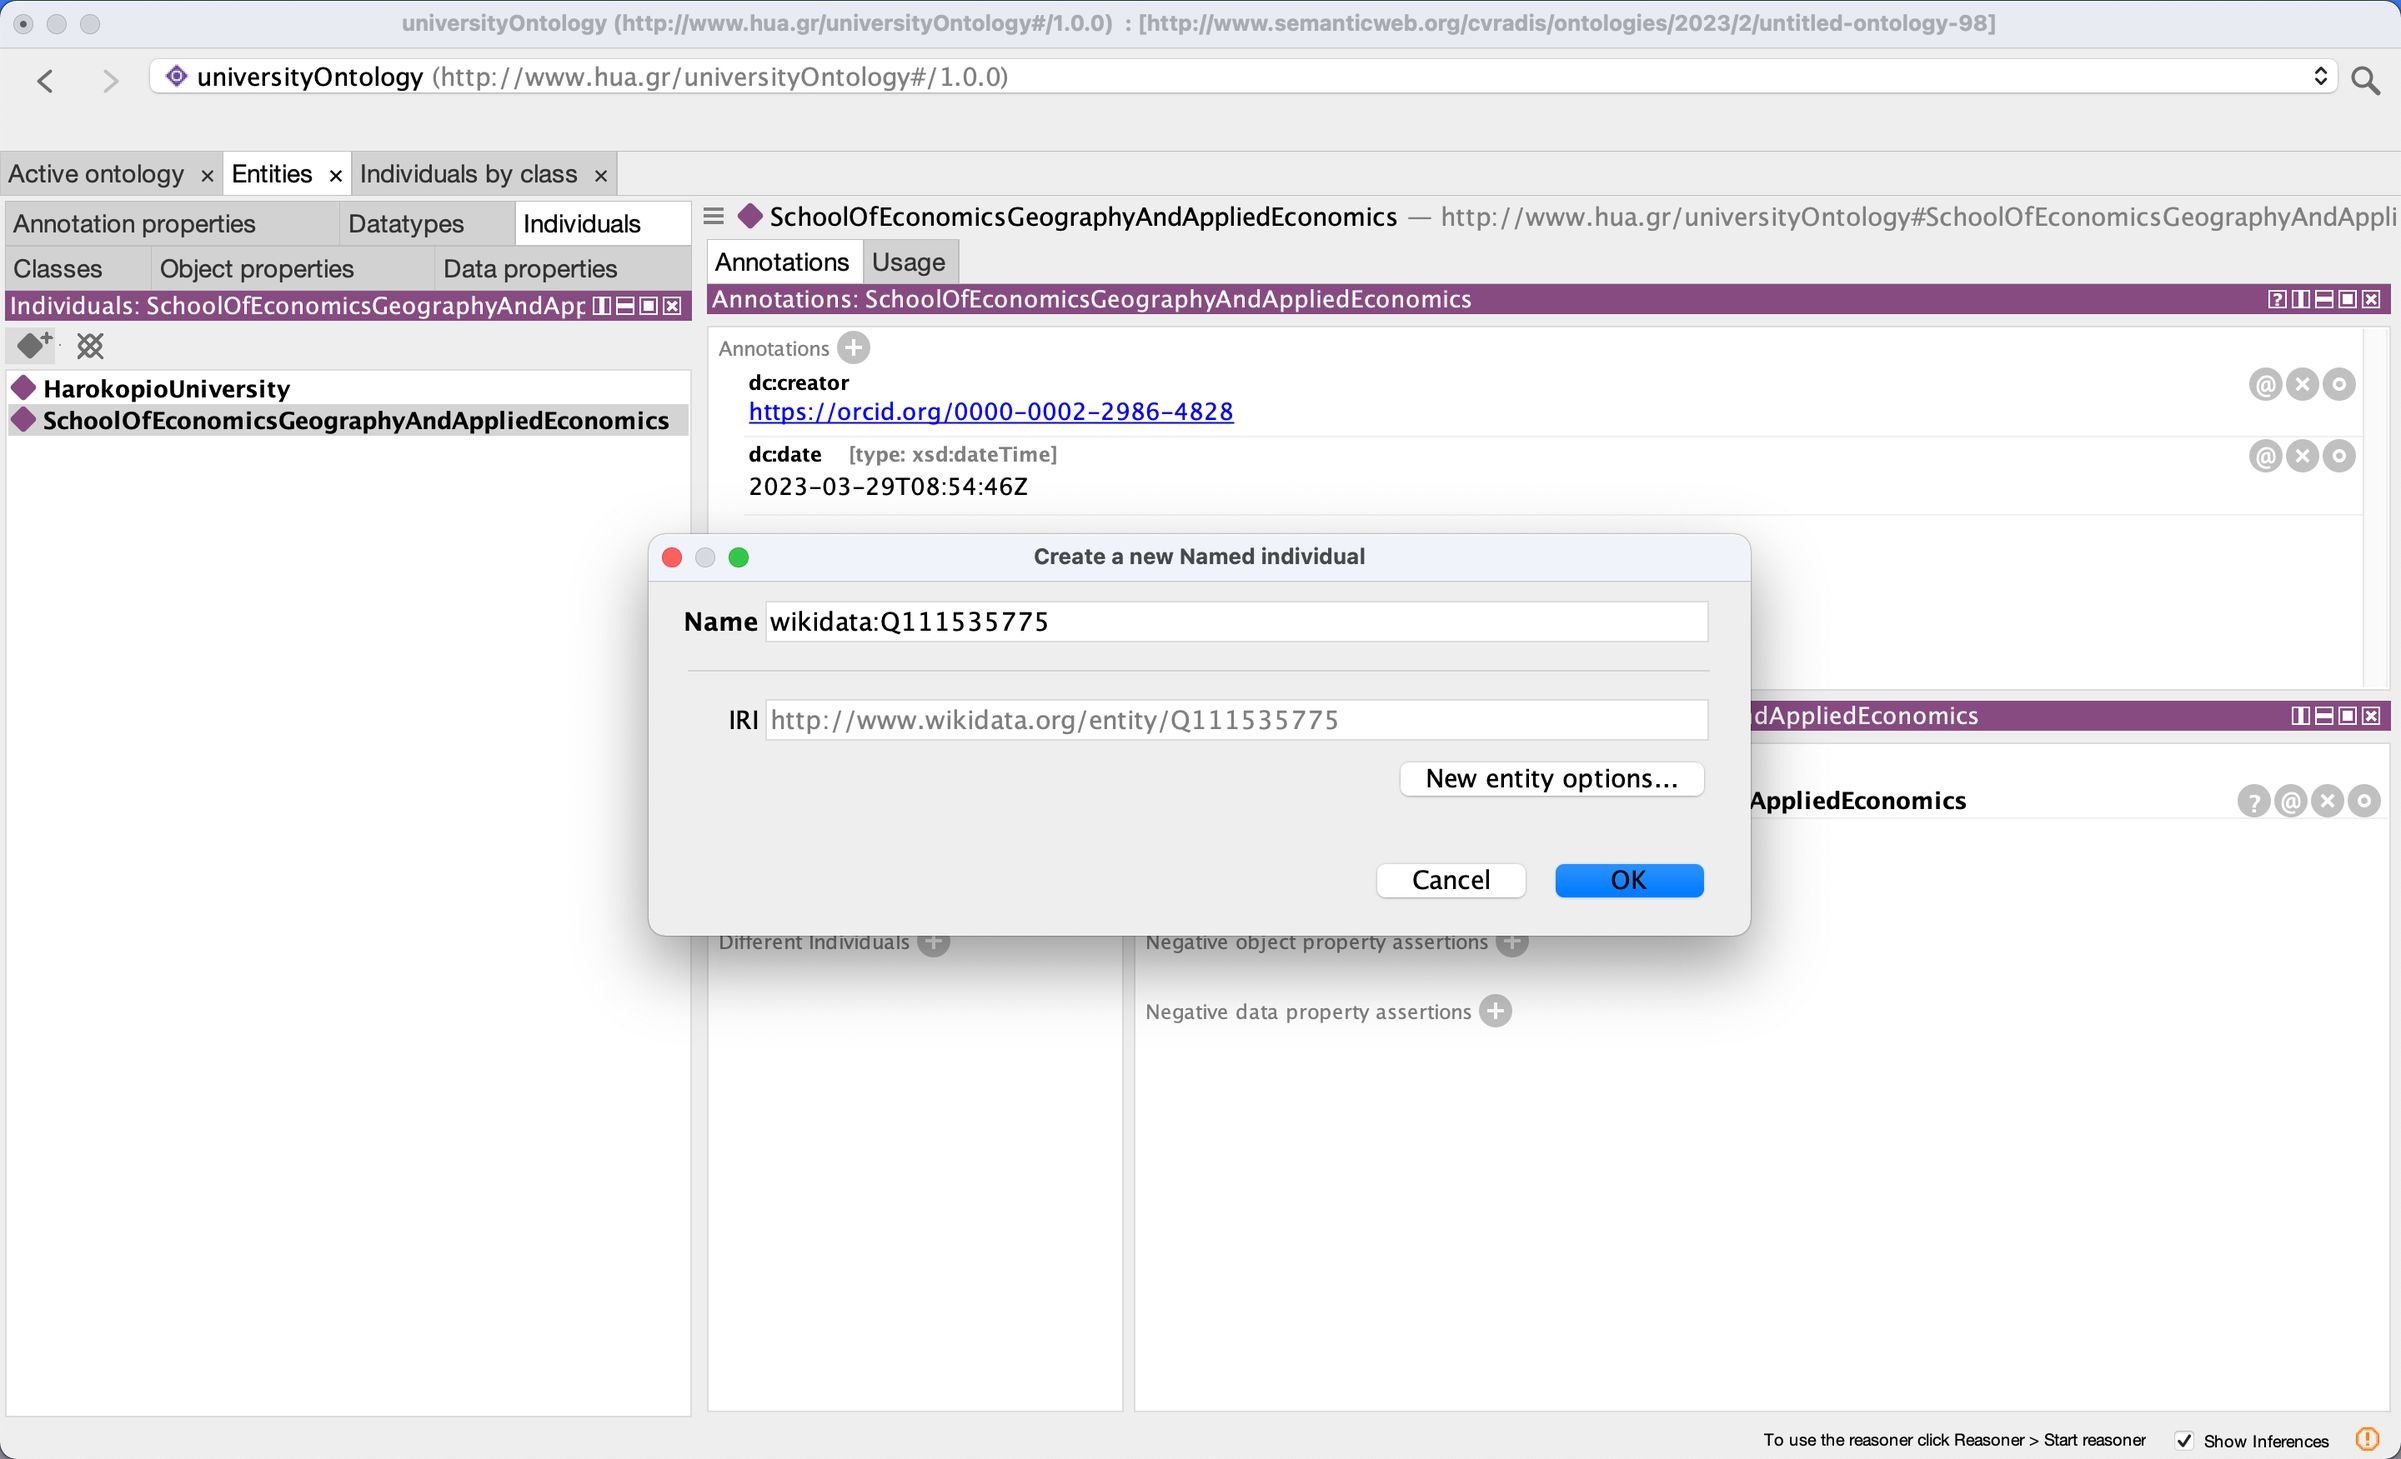
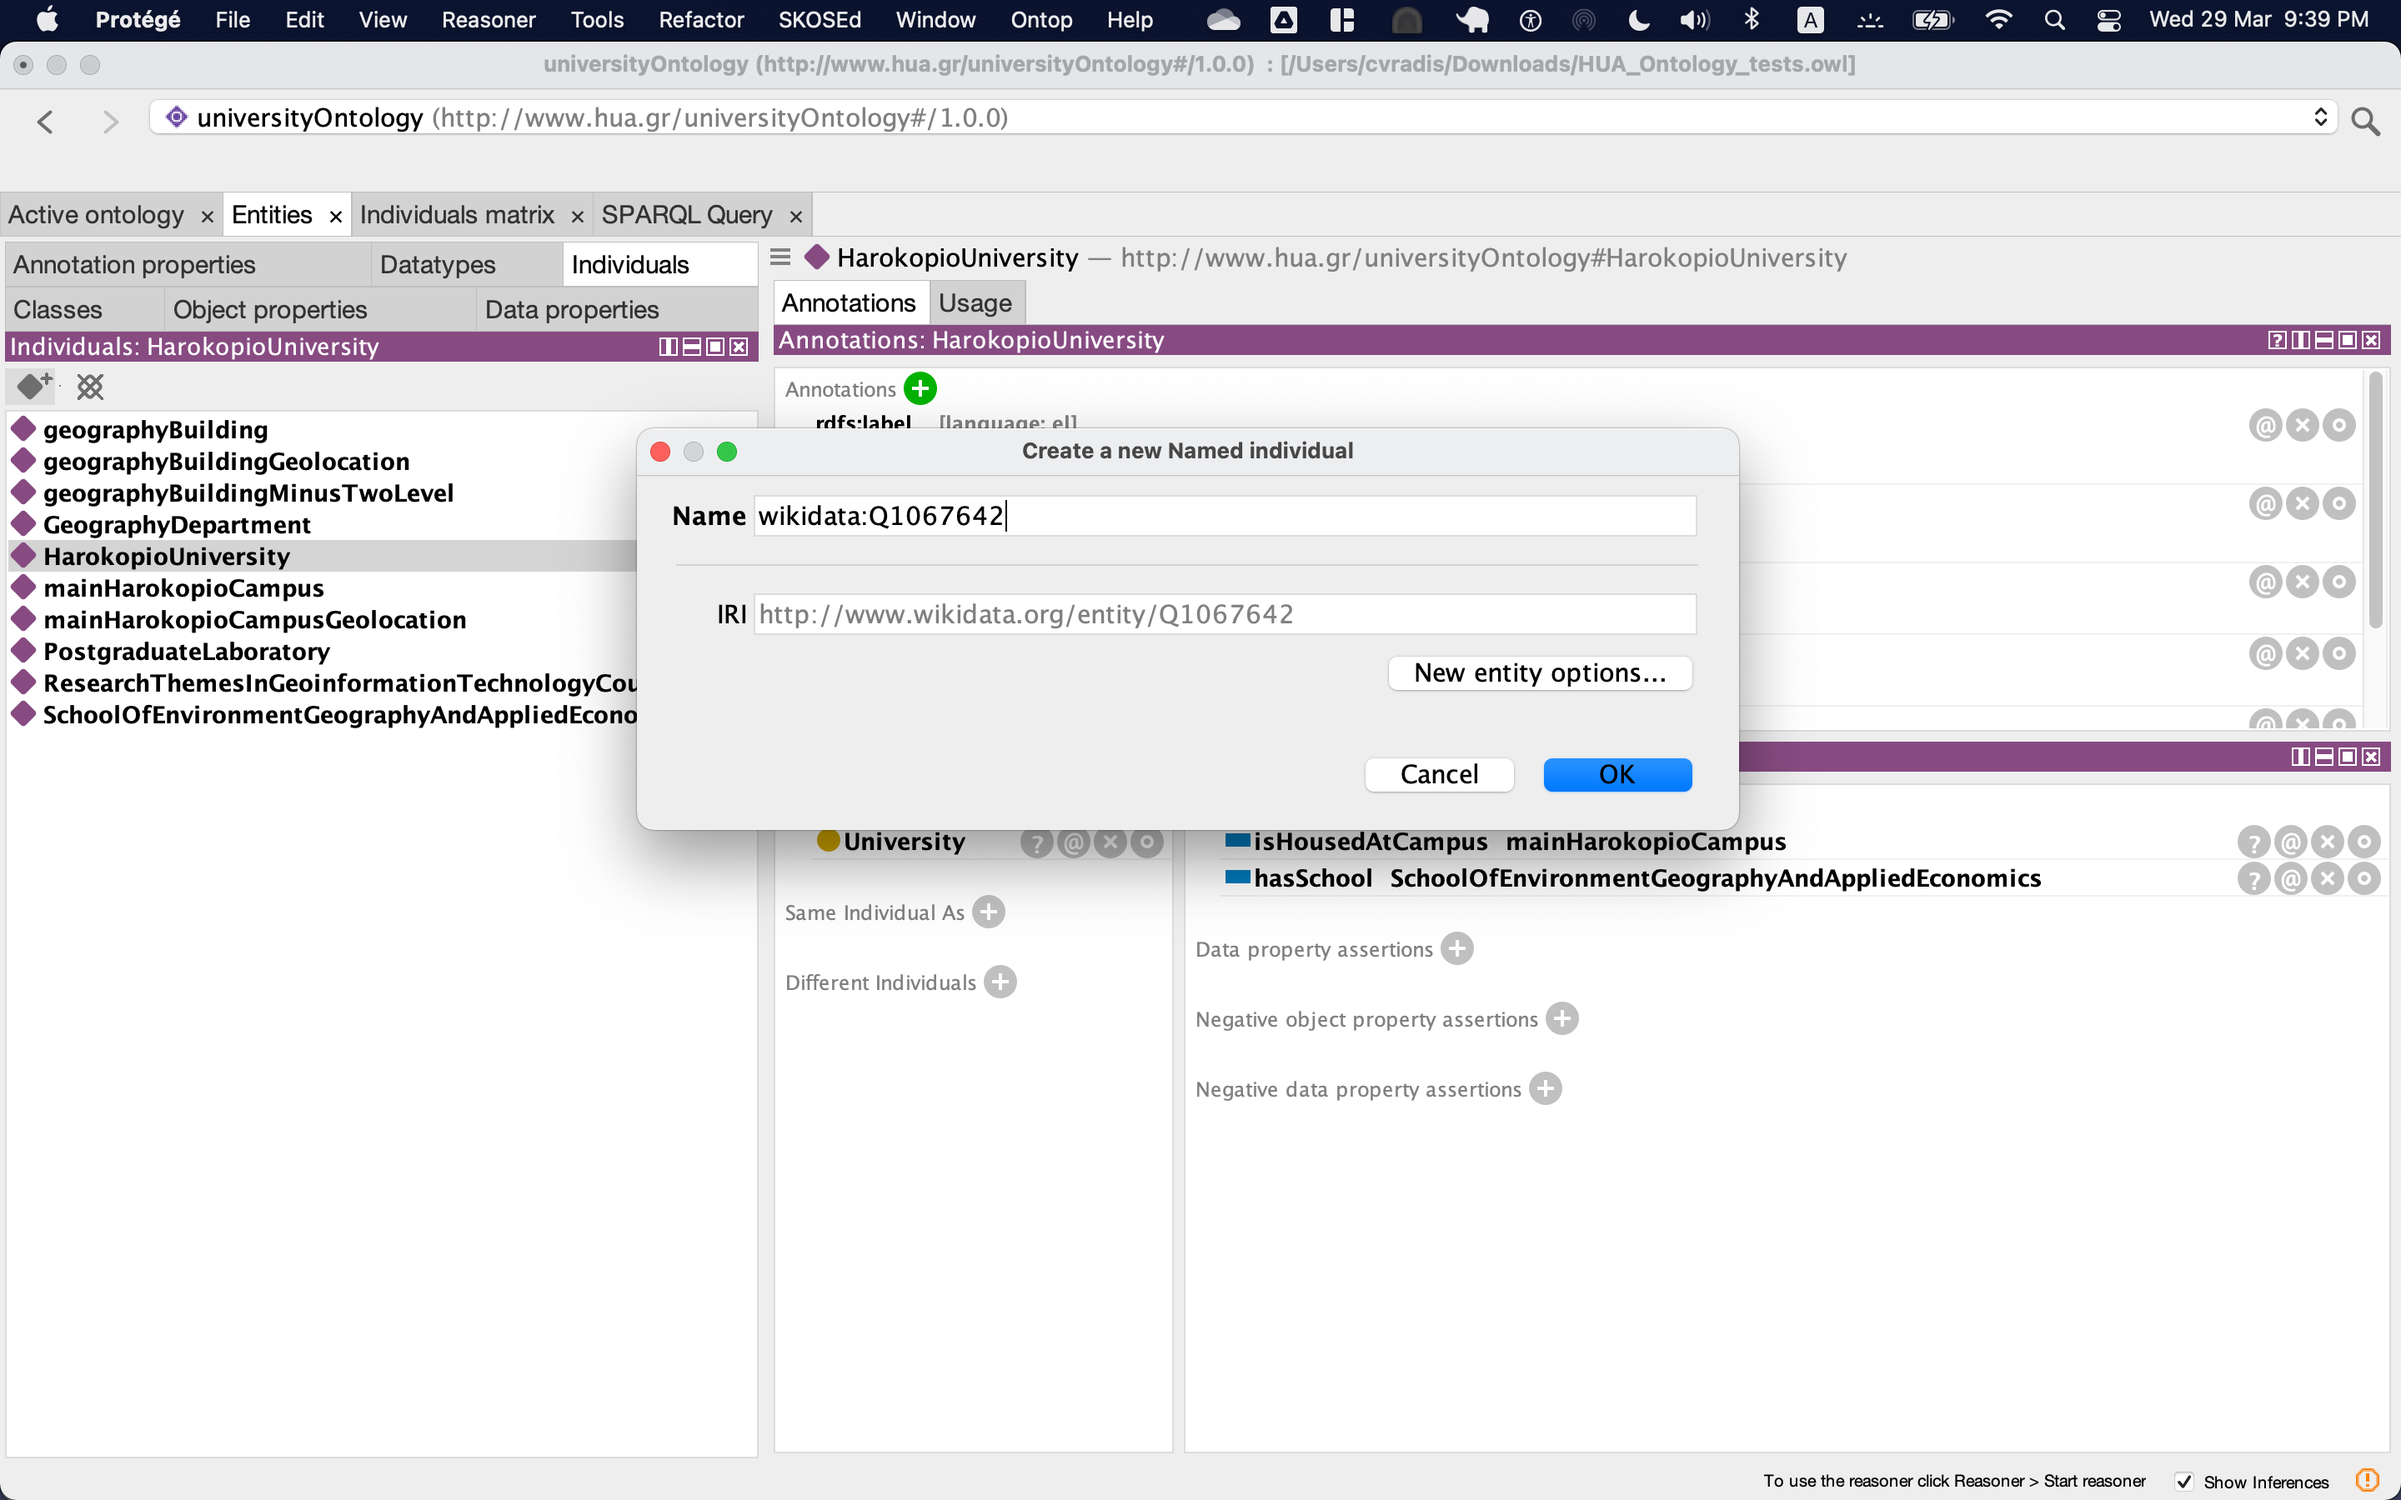
tutorial + screenshot update

diff --git a/Tutorial/Tutorial.md b/Tutorial/Tutorial.md
@@ -210,7 +210,7 @@
 - http://www.wikidata.org/entity/Q3918, για την έννοια University (Πανεπιστήμιο)
 - http://www.wikidata.org/entity/Q1067642, για την εγγραφή για το ίδιο το Χαροκόπειο Πανεπιστήμιο
 
-#### Προσθήκη της κλάσης "Q3918" από το Wikidata (εγγραφή για την έννοια "University")
+### Προσθήκη της κλάσης "Q3918" από το Wikidata (εγγραφή για την έννοια "University")
 
 Για να εισάγουμε την έννοια του Πανεπιστημίου από το Wikidata, μεταβαίνουμε στην ενότητα "Classes" και με δεξί κλικ στην βασική κλάση `owl:Thing` προσθέτουμε την νέα, εξωτερική κλάση όπως στο σιγμιότυπο:
 
@@ -226,11 +226,20 @@
 
 <img src="../images/Screenshot_19.png">
 
-#### Προσθήκη του individual "Q1067642" από το Wikidata (εγγραφή για το "Χαροκόπειο Πανεπιστήμιο")
+### Προσθήκη του individual "Q1067642" από το Wikidata (εγγραφή για το "Χαροκόπειο Πανεπιστήμιο")
 
 Με την ίδια λογική, μεταβαίνουμε στην ενότητα "Individuals" για να προσθέσουμε την εγγραφή της Wikidata για το Χαροκόπειο Πανεπιστημιο (Q1067642). Το νέο individual θα προστεθεί ως `wikidata:Q1067642` όπως στο στιγμιότυπο:
 
 <img src="../images/Screenshot_20.png">
 
-Για να δηλώσουμε ότι το νέο και εξωτερικό individual είναι ταυτόσημο με το individual του Χαροκοπείου Πανεπιστημίου που έχουμε προσθέσει ήδη στην οντολογία μας, χρησιμοποιούμε την επιλογή **"Same individual as"** και επιλέγουμε το 
+Για να δηλώσουμε ότι το νέο και εξωτερικό individual είναι ταυτόσημο με το individual του Χαροκοπείου Πανεπιστημίου που έχουμε προσθέσει ήδη στην οντολογία μας, χρησιμοποιούμε την επιλογή **"Same individual as"** και επιλέγουμε το individual `HarokopioUniversity`.
+
 <img src="../images/Screenshot_21.png">
+
+# Ενεργοποίηση του συλλογιστή (reasoner)
+
+Για να ενεργοποιήσουμε τον συλλογιστή, από το κυρίως μενού επιλέγουμε Reasoner, και επιλέγουμε έναν από τους διαθέσιμους συλλογιστές (οι οποίοι υπάρχουν ήδη στο Protégé ως plugins. Στη συνέχεια, από το ίδιο μενού επιλέγουμε "Start Reasoner" Εφόσον δεν υπάρχει κάποια λογική ασυνέπεια στην οντολογία μας (για την οποία ενδέχεται να εμφανιστεί μήνυμα σφάλματος), μπορούμε να μεταβούμε στην ενότητα "Individuals" και να επιλέξουμε την εξωτερική εγγραφή της Wikidata για το Χαροκόπειο (`Q10676421`). Στο δεξί μέρος της οθόνης θα δούμε τα "συμπεράσματα" που έχει δημιουργήσει ο συλλογιστής για την εγγραφή αυτή: εφόσον θωερείται ταυτόσημη με το individual `HarokopioUniversity` θα ισχύουν οι ίδιες δηλώσεις.
+
+<img src="../images/Screenshot_22.png">
+
+Αν μεταβούμε και στις υπόλοιπες ενότητες (classes, object properties, data properties) μπορούμε να δούμε ποιά άλλα νέα συμπεράσματα έχουν προκύψει από το σύνολο των δηλώσεών μας.
